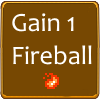
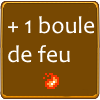
change ui language

Changed region(s): [[0.06, 0.45, 0.93, 0.66], [0.06, 0.12, 0.96, 0.36]]

diff --git a/frontend/src/Components/Game/GameScene.js b/frontend/src/Components/Game/GameScene.js
@@ -194,7 +194,7 @@ class GameScene extends Phaser.Scene {
     this.levelDisplay.setDepth(4);
 
     // Display player's name if connected
-    const text = isAuthenticated() ? `Player : ${getAuthenticatedUser().username}` : "You are not connected";
+    const text = isAuthenticated() ? `Joueur : ${getAuthenticatedUser().username}` : "Non connecté";
     this.nameDisplay = this.add
       .text(635, 25, text, { fontSize: '14px', fontFamily: 'Candara, Arial', fill: '#fff' })
       .setScrollFactor(0);

diff --git a/frontend/src/Components/Game/UIGameOver.js b/frontend/src/Components/Game/UIGameOver.js
@@ -21,7 +21,7 @@ export default class UIGameOver extends Phaser.Scene {
         ).setOrigin(0.5);
 
         // Button to restart the game
-        const button = this.add.text(centerX, centerY + 140, 'Restart',
+        const button = this.add.text(centerX, centerY + 140, 'NOUVELLE PARTIE',
             {
                 fontFamily: 'Candara, Arial',
                 fontSize: '32px',

diff --git a/frontend/src/Components/Game/UIStart.js b/frontend/src/Components/Game/UIStart.js
@@ -14,7 +14,7 @@ export default class StartUI extends Phaser.Scene {
 
 
     create() {
-        const button = this.add.text(this.scale.width * 0.5, this.scale.height * 0.5, 'START',
+        const button = this.add.text(this.scale.width * 0.5, this.scale.height * 0.5, 'COMMENCER',
             {
                 fontFamily: 'Candara, Arial',
                 fontSize: '48px',
